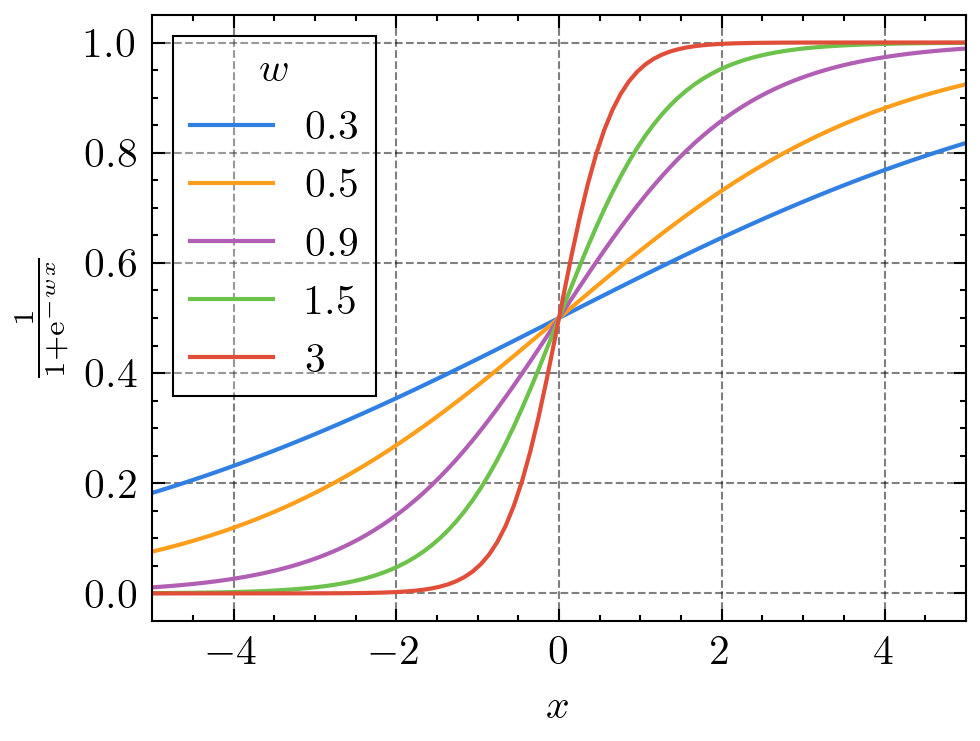
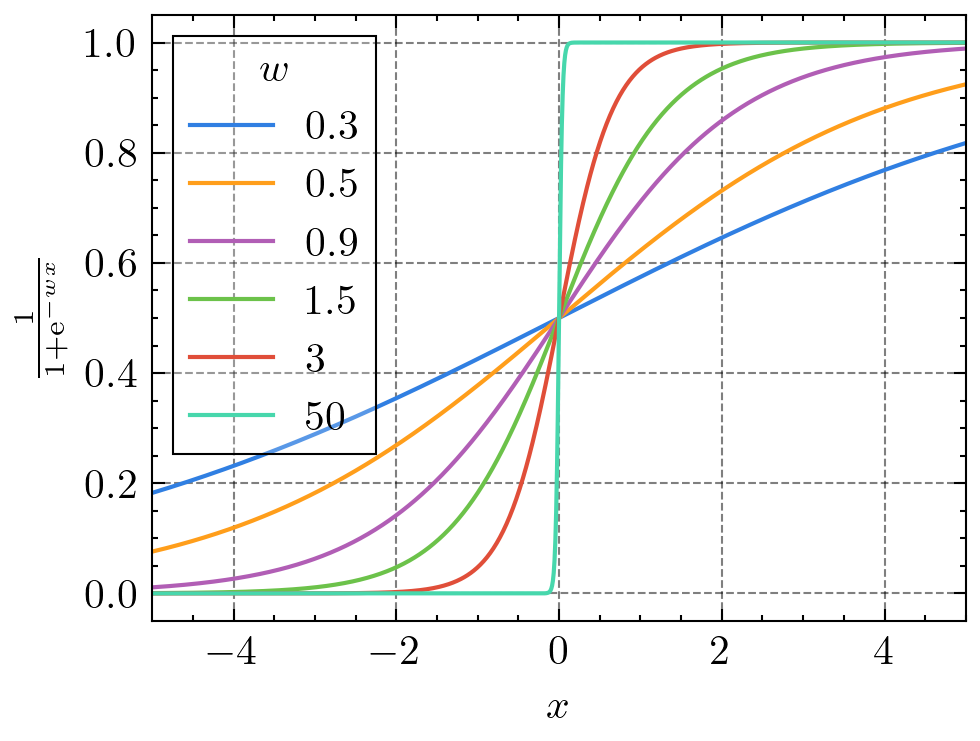
Changing some legend parameters

Changed region(s): [[0.1531, 0.0621, 0.5816, 0.807], [0.1837, 0.5277, 0.398, 0.6208], [0.5816, 0.031, 0.9796, 0.0621]]

diff --git a/examples/plot_examples.py b/examples/plot_examples.py
@@ -10,8 +10,8 @@ plt.style.use('stfc')
 def sigmoid(x, w):
     return 1 / (1 + np.e ** (-w * x))
 
-x = np.linspace(-5, 5, 100)
-vals = (0.3, 0.5, 0.9, 1.5, 3)
+x = np.linspace(-5, 5, 1000)
+vals = (0.3, 0.5, 0.9, 1.5, 3, 50)
 
 # Plotting
 fig, ax = plt.subplots()
